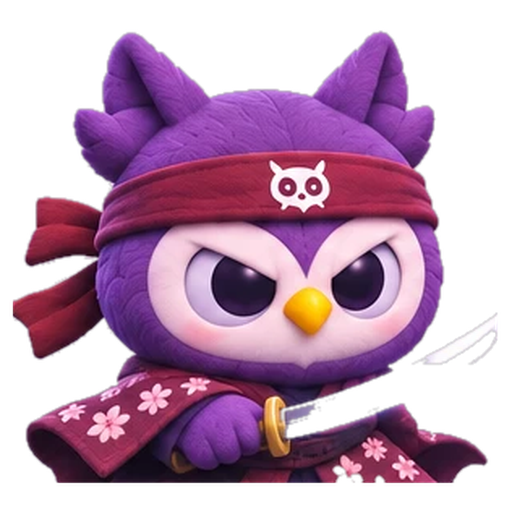
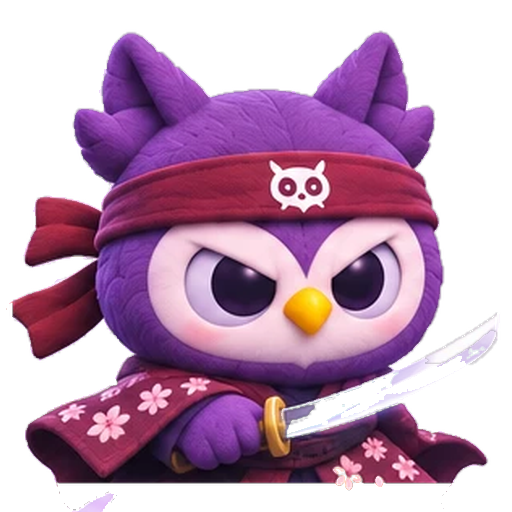
Website: Spline ring behind the closing line, owl looks made whole again
The ring is the Spline scene, self-hosted (assets/ervo-ring.splinecode) and
drawn by a pinned Spline runtime. Its scroll animation is re-anchored to the
closing section, the ring is centred, and it takes the page's light or dark
ground with Ervo's violet laid over it. It loads only on computers with a real
graphics card, after scrolling pauses, and stops drawing off screen. Phones,
"reduce motion" and "save data" get a still picture.

Eleven owl looks had white costume parts cut away by the first background
removal (chef hat and coat, lab coat, hat trim, space suit, robe trim and
more). They are restored from the original artwork, with new small copies.

diff --git a/docs/js/ring.js b/docs/js/ring.js
@@ -1,0 +1,108 @@
+// The closing ring: a Spline scene (assets/ervo-ring.splinecode) behind the page's last line.
+// A still picture of it is there first. The live scene loads only on computers with a real graphics card,
+// only when the visitor gets near the end of the page, and it stops drawing whenever it is off screen.
+// Starting a 3D scene costs a few slow frames, so it waits for a pause in scrolling to do that.
+// "Reduce motion", "save data", phones and software renderers all keep the still picture.
+(() => {
+  const stage = document.getElementById("ring-stage");
+  if (!stage) return;
+  const canvas = stage.querySelector("canvas");
+  const root = document.documentElement;
+  const reduce = matchMedia("(prefers-reduced-motion: reduce)");
+  const fine = matchMedia("(hover: hover) and (pointer: fine)").matches;
+  const saveData = !!(navigator.connection && navigator.connection.saveData);
+  const RUNTIME = "https://cdn.jsdelivr.net/npm/@splinetool/runtime@2.0.122/build/runtime.js";
+  const SCENE = "assets/ervo-ring.splinecode?v=1";
+  const END = 0.33;   // how far into the scene's scroll animation the ring gets by the time it leaves the screen
+  let app = null, loading = false, failed = false, visible = false;
+
+  // A software renderer would draw the scene on the processor and slow the page, so it keeps the picture.
+  function hardwareGL() {
+    if (/force3d/.test(location.search)) return true;
+    try {
+      const c = document.createElement("canvas"), gl = c.getContext("webgl2");
+      if (!gl) return false;
+      const info = gl.getExtension("WEBGL_debug_renderer_info");
+      const name = info ? String(gl.getParameter(info.UNMASKED_RENDERER_WEBGL)) : "";
+      const lose = gl.getExtension("WEBGL_lose_context"); if (lose) lose.loseContext();
+      return !/swiftshader|llvmpipe|softpipe|software|basic render/i.test(name);
+    } catch (e) { return false; }
+  }
+
+  // The scene fades its far side into its own background; both follow the page's light or dark ground.
+  function paint() {
+    if (!app) return;
+    const dark = root.dataset.theme === "dark";
+    const bg = dark ? "0,0,0" : "247,245,242";
+    try {
+      app.setBackgroundColor(dark ? "#000000" : "#f7f5f2");
+      const ring = app.findObjectByName("Abstract");
+      const layers = ring && ring.material && ring.material.layers;
+      const fade = layers && layers.find((l, i) => i > 0 && l.type === "depth" && l.mode === 2);
+      if (fade && fade.colors) { fade.colors[0] = `rgba(${bg},0)`; fade.colors[1] = `rgba(${bg},1)`; }
+      app.requestRender();
+    } catch (e) { /* the scene keeps its own colours */ }
+  }
+
+  // The scene's own scroll animation (the camera moving in on the ring) was made for the top of a page.
+  // Here it starts when the ring comes into view and reaches END as it leaves the top of the screen.
+  function anchor() {
+    if (!app) return;
+    try {
+      const room = innerHeight + stage.offsetHeight;
+      const scroll = app._eventManager.handlers.Scroll;
+      for (const list of scroll.scrollEventsPerObject.values()) for (const ev of list) {
+        Object.assign(ev.data, { startFrom: "enter", enterAnchor: "top", startOffset: 0, endAfter: room / END });
+        ev.handleResize();
+      }
+    } catch (e) { /* the scene keeps its own timing */ }
+  }
+
+  // The scene frames its ring high and to the left; this puts it in the middle of the stage.
+  function centre() {
+    try { const ring = app.findObjectByName("Abstract"); ring.position.x = 0; ring.position.y = -120; } catch (e) { /* stays where it is */ }
+  }
+
+  // Resolves once the page has been still for a moment.
+  let moved = 0;
+  addEventListener("scroll", () => { moved = performance.now(); }, { passive: true });
+  const settled = () => new Promise((done) => { const check = () => (performance.now() - moved > 350 ? done() : setTimeout(check, 120)); check(); });
+
+  function run() {
+    if (!app) return;
+    if (visible && !reduce.matches && !document.hidden) app.play(); else app.stop();
+  }
+
+  async function load() {
+    if (app || loading || failed || reduce.matches || saveData || !fine) return;
+    if (!hardwareGL()) { failed = true; return; }
+    loading = true;
+    try {
+      const { Application } = await import(RUNTIME);
+      await settled();
+      app = new Application(canvas, { renderMode: "auto" });
+      await app.load(SCENE);
+      centre();
+      anchor();
+      paint();
+      run();
+      // Two frames so the first picture is on the canvas before the still fades out.
+      requestAnimationFrame(() => requestAnimationFrame(() => stage.classList.add("is-live")));
+    } catch (e) {
+      failed = true;
+      stage.classList.remove("is-live");
+      try { if (app) app.dispose(); } catch (err) { /* fine */ }
+      app = null;
+    }
+    loading = false;
+  }
+
+  // Starts loading a couple of screens before the section arrives; draws only while it is on screen.
+  new IntersectionObserver((entries) => { if (entries[0].isIntersecting) load(); }, { rootMargin: "1600px 0px" }).observe(stage);
+  new IntersectionObserver((entries) => { visible = entries[0].isIntersecting; run(); }).observe(stage);
+  document.addEventListener("visibilitychange", run);
+  let sized = 0;
+  addEventListener("resize", () => { cancelAnimationFrame(sized); sized = requestAnimationFrame(anchor); });
+  reduce.addEventListener("change", () => { stage.classList.toggle("is-live", !!app && !reduce.matches); run(); if (!reduce.matches && visible) load(); });
+  new MutationObserver(paint).observe(root, { attributes: true, attributeFilter: ["data-theme"] });
+})();

diff --git a/docs/css/depth.css b/docs/css/depth.css
@@ -184,8 +184,8 @@ main .plan-card, main .feature, main .ideas-card, main .cmp-tabs, main .try, mai
 .perm-stand { position: relative; display: grid; justify-items: center; width: 100%; }
 .apps-stand { position: relative; width: fit-content; justify-self: center; }
 @media (min-width: 901px) { .apps-split .apps-stand { justify-self: start; } }
-/* The feature grid and the closing line have a wide, low light across the section */
-#learn::after, section.closing::after { content: ""; position: absolute; z-index: -1; pointer-events: none; top: 50%; left: 50%; width: 1100px; height: 520px; margin: -260px 0 0 -550px; border-radius: 50%;
+/* The feature grid has a wide, low light across the section (the closing line has the ring instead) */
+#learn::after { content: ""; position: absolute; z-index: -1; pointer-events: none; top: 50%; left: 50%; width: 1100px; height: 520px; margin: -260px 0 0 -550px; border-radius: 50%;
   background: radial-gradient(closest-side, var(--orb-a), transparent); }
 /* Film grain over the whole ground, under every section */
 main { position: relative; }
@@ -260,10 +260,29 @@ html.motion .statement .badge-icon { animation-delay: -1.7s; }
 html.motion .statement .badge-icon ~ .badge-icon { animation-delay: -3.4s; }
 @keyframes chip-bob { 0%, 100% { translate: 0 0; } 50% { translate: 0 -5px; } }
 
+/* 5h2. The closing ring: the Spline scene (js/ring.js) turns slowly behind the page's last line. A still picture
+   of it shows first and stays for phones, "reduce motion" and computers without a graphics card. */
+section.closing { overflow: clip; padding: 200px 0 180px; }
+.ring-stage { position: absolute; z-index: -1; left: 50%; top: 50%; width: min(1240px, 100vw); height: 720px; transform: translate(-50%, -50%); pointer-events: none; isolation: isolate;
+  -webkit-mask-image: radial-gradient(closest-side, #000 55%, transparent 100%); mask-image: radial-gradient(closest-side, #000 55%, transparent 100%); }
+.ring-stage > img, .ring-stage > canvas { position: absolute; inset: 0; width: 100%; height: 100%; display: block; }
+.ring-still { object-fit: cover; transition: opacity 0.7s ease; }
+.ring-canvas { opacity: 0; transition: opacity 0.7s ease; }
+.ring-stage.is-live .ring-canvas { opacity: 1; }
+.ring-stage.is-live .ring-still { opacity: 0; }
+.ring-stage > .ring-light { display: none; }
+:root:not([data-theme="dark"]) .ring-stage > .ring-dark { display: none; }
+:root:not([data-theme="dark"]) .ring-stage > .ring-light { display: block; }
+/* Ervo's violet laid over the scene's own greys: one blend layer, no filters */
+.ring-stage::after { content: ""; position: absolute; inset: 0; pointer-events: none; mix-blend-mode: color-dodge; background: #803db8; }
+:root:not([data-theme="dark"]) .ring-stage { opacity: 0.62; }
+:root:not([data-theme="dark"]) .ring-stage::after { mix-blend-mode: screen; background: radial-gradient(60% 70% at 50% 45%, #3f1d8a 0%, #2e1065 100%); }
 /* 5i. Phones and tablets: lighter effects, nothing leans */
 @media (max-width: 860px) {
-  #learn::after, section.closing::after, .phone-stand::before, .ideas::before, .cmp::before, .perm-stand::before, .apps-stand::before { width: 440px; height: 440px; margin: -220px 0 0 -220px; left: 50%; }
+  #learn::after, .phone-stand::before, .ideas::before, .cmp::before, .perm-stand::before, .apps-stand::before { width: 440px; height: 440px; margin: -220px 0 0 -220px; left: 50%; }
   main::before { display: none; }
+  section.closing { padding: 130px 0 120px; }
+  .ring-stage { height: 520px; }
   .feature .ico, :root[data-theme] .feature .ico { transform: none; }
 }
 @media (prefers-reduced-motion: reduce) {

diff --git a/docs/index.html b/docs/index.html
@@ -17,7 +17,7 @@
   <link rel="stylesheet" href="css/how.css?v=10">
   <link rel="stylesheet" href="css/contact.css?v=2">
   <link rel="stylesheet" href="css/design.css?v=9">
-  <link rel="stylesheet" href="css/depth.css?v=7">
+  <link rel="stylesheet" href="css/depth.css?v=8">
 </head>
 <body>
 
@@ -661,6 +661,11 @@
   </section>
 
   <section class="block closing">
+    <div class="ring-stage" id="ring-stage" aria-hidden="true">
+      <img class="ring-still ring-dark" src="assets/ervo-ring-dark.webp?v=1" alt="" width="1240" height="720" loading="lazy" decoding="async">
+      <img class="ring-still ring-light" src="assets/ervo-ring-light.webp?v=1" alt="" width="1240" height="720" loading="lazy" decoding="async">
+      <canvas class="ring-canvas"></canvas>
+    </div>
     <div class="wrap">
       <div class="statement reveal closing-line">
         Ervo <span class="inline-chip"><img src="assets/sm/ervo-classic.webp" alt=""></span> is your
@@ -691,9 +696,10 @@
 
 <script src="app/config.js"></script>
 <script src="https://cdnjs.cloudflare.com/ajax/libs/qrcode-generator/1.4.4/qrcode.min.js"></script>
-<script src="js/app.js?v=18"></script>
-<script src="js/hero.js?v=5"></script>
+<script src="js/app.js?v=19"></script>
+<script src="js/hero.js?v=6"></script>
 <script src="js/motion.js?v=6"></script>
+<script src="js/ring.js?v=1"></script>
 <script src="js/how.js?v=10"></script>
 <script src="js/theme.js?v=4"></script>
 <script src="js/contact.js?v=3"></script>

diff --git a/docs/js/app.js b/docs/js/app.js
@@ -241,7 +241,7 @@
   let current = "classic";
   try { current = localStorage.getItem(KEY) || "classic"; } catch (e) { /* fine */ }
   if (!LOOKS.some((l) => l[0] === current)) current = "classic";
-  const src = (id) => `assets/sm/ervo-${id}.webp`; // small copies; the full-size art stays in assets/
+  const src = (id) => `assets/sm/ervo-${id}.webp?v=2`; // small copies; the full-size art stays in assets/
 
   LOOKS.forEach(([id, name]) => {
     const b = document.createElement("button");

diff --git a/docs/privacy.html b/docs/privacy.html
@@ -14,7 +14,7 @@
   <link rel="stylesheet" href="css/legal.css?v=6">
   <link rel="stylesheet" href="css/contact.css?v=2">
   <link rel="stylesheet" href="css/design.css?v=9">
-  <link rel="stylesheet" href="css/depth.css?v=7">
+  <link rel="stylesheet" href="css/depth.css?v=8">
 </head>
 <body class="theme-dark">
 <!-- DRAFT: written as a starting point, not legal advice. Have a lawyer review before launch. -->

diff --git a/docs/terms.html b/docs/terms.html
@@ -14,7 +14,7 @@
   <link rel="stylesheet" href="css/legal.css?v=6">
   <link rel="stylesheet" href="css/contact.css?v=2">
   <link rel="stylesheet" href="css/design.css?v=9">
-  <link rel="stylesheet" href="css/depth.css?v=7">
+  <link rel="stylesheet" href="css/depth.css?v=8">
 </head>
 <body class="theme-dark">
 <!-- DRAFT: written as a starting point, not legal advice. Have a lawyer review before launch. -->

diff --git a/docs/js/hero.js b/docs/js/hero.js
@@ -27,7 +27,7 @@
 
   function showLook() {
     stage.dataset.look = look;
-    const src = look === "classic" ? "assets/ervo-classic.webp?v=2" : `assets/ervo-${look}.png?v=2`;
+    const src = look === "classic" ? "assets/ervo-classic.webp?v=2" : `assets/ervo-${look}.png?v=3`;
     if (poster.getAttribute("src") !== src) poster.src = src;
     sync();
   }

diff --git a/docs/contact.html b/docs/contact.html
@@ -15,7 +15,7 @@
   <link rel="stylesheet" href="css/legal.css?v=7">
   <link rel="stylesheet" href="css/contact.css?v=2">
   <link rel="stylesheet" href="css/design.css?v=9">
-  <link rel="stylesheet" href="css/depth.css?v=7">
+  <link rel="stylesheet" href="css/depth.css?v=8">
 </head>
 <body>
 
